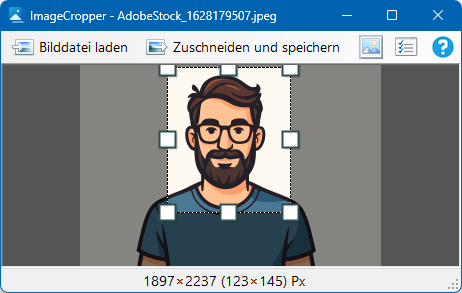
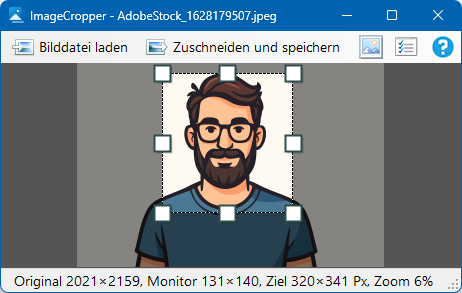
v1.0.1

Changed region(s): [[0.0, 0.215, 1.0, 0.9829]]

diff --git a/Main.cs b/Main.cs
@@ -196,7 +196,10 @@ public partial class Main : Form
         ratio1to1ToolStripMenuItem.Checked = false;
         ratio2to3ToolStripMenuItem.Checked = false;
         ratio3to4ToolStripMenuItem.Checked = false;
-        if (ratio <= 0) ratioFreeToolStripMenuItem.Checked = true;
+        if (ratio <= 0)
+        {
+            ratioFreeToolStripMenuItem.Checked = true;
+        }
         else if (Math.Abs(ratio - 1.0f) < 0.01) { ratio1to1ToolStripMenuItem.Checked = true; }
         else if (Math.Abs(ratio - (2f / 3f)) < 0.01) { ratio2to3ToolStripMenuItem.Checked = true; }
         else if (Math.Abs(ratio - (3f / 4f)) < 0.01) { ratio3to4ToolStripMenuItem.Checked = true; }
@@ -229,32 +232,59 @@ public partial class Main : Form
         if (rect.Bottom > pictureBox.Height) { rect.Height = pictureBox.Height - rect.Y; }
     }
 
+    private Rectangle GetImageRectangle()
+    {
+        if (pictureBox.Image == null) { return Rectangle.Empty; }
+        var imgSize = pictureBox.Image.Size;
+        var ctrlSize = pictureBox.ClientSize; // Wichtig: ClientSize wegen Fixed3D-Rahmen
+        var ratioImg = (float)imgSize.Width / imgSize.Height;
+        var ratioCtrl = (float)ctrlSize.Width / ctrlSize.Height;
+        var x = 0;
+        var y = 0;
+        var w = ctrlSize.Width;
+        var h = ctrlSize.Height;
+        if (ratioImg > ratioCtrl) // Bild ist breiter als Box (Balken oben/unten)
+        {
+            h = (int)(w / ratioImg);
+            y = (ctrlSize.Height - h) / 2;
+        }
+        else // Bild ist höher als Box (Balken links/rechts)
+        {
+            w = (int)(h * ratioImg);
+            x = (ctrlSize.Width - w) / 2;
+        }
+        return new Rectangle(x, y, w, h);
+    }
+
     private void PictureBox_MouseDown(object? sender, MouseEventArgs e)
     {
-        if (pictureBox.Image == null || e.Button != MouseButtons.Left) return;
-        _mouseDownPoint = e.Location;
+        if (pictureBox.Image == null || e.Button != MouseButtons.Left) { return; }
+        var validRect = GetImageRectangle(); // Gültiger Bereich des Bildes in der PictureBox
+        var clampedPoint = new Point(Math.Clamp(e.X, validRect.Left, validRect.Right), Math.Clamp(e.Y, validRect.Top, validRect.Bottom));
+        _mouseDownPoint = clampedPoint; // Klickpunkt liegt jetzt innerhalb des Bildbereichs, auch wenn Original-Mausposition außerhalb war
         _currentDragHandle = HitTest(e.Location);
-        if (_currentDragHandle != DragHandle.None)  // Wir haben einen Griff oder das Innere getroffen
+        if (_currentDragHandle != DragHandle.None)
         {
             _isDragging = true;
-            _dragStartPoint = e.Location;
+            _dragStartPoint = e.Location; // Hier Original-Location lassen für flüssiges Delta
             _isNewSelection = false;
         }
-        else // Klick außerhalb der Auswahl: Auswahl sofort aufheben
+        else
         {
             _selectionRect = Rectangle.Empty;
             _isNewSelection = true;
             _isDragging = false;
-            pictureBox.Invalidate(); // Zeichnet das Bild ohne Rahmen neu
+            pictureBox.Invalidate();
         }
     }
 
     private void PictureBox_MouseMove(object? sender, MouseEventArgs e)
     {
         if (pictureBox.Image == null) { return; }
+        var validRect = GetImageRectangle();
         if (!_isDragging && _isNewSelection && e.Button == MouseButtons.Left)
         {
-            if (Math.Abs(e.X - _mouseDownPoint.X) > SystemInformation.DragSize.Width || Math.Abs(e.Y - _mouseDownPoint.Y) > SystemInformation.DragSize.Height) // Mindestbewegung prüfen
+            if (Math.Abs(e.X - _mouseDownPoint.X) > SystemInformation.DragSize.Width || Math.Abs(e.Y - _mouseDownPoint.Y) > SystemInformation.DragSize.Height) // _mouseDownPoint ist bereits korrigiert
             {
                 _isDragging = true;
                 _selectionRect = new Rectangle(_mouseDownPoint, new Size(0, 0));
@@ -268,45 +298,52 @@ public partial class Main : Form
             SetCursor(HitTest(e.Location));
             return;
         }
-        var newRect = _selectionRect; // B) Das eigentliche Ziehen/Vergrößern
-        switch (_currentDragHandle) // Berechnung basierend darauf, welcher Griff gezogen wird
+        var x = Math.Clamp(e.X, validRect.Left, validRect.Right); // Clamping auf das Bildrechteck:
+        var y = Math.Clamp(e.Y, validRect.Top, validRect.Bottom); // Maus darf virtuell nicht den Bildbereich verlassen
+        var newRect = _selectionRect;
+        switch (_currentDragHandle)
         {
             case DragHandle.TopLeft:
-                newRect.X = e.X; newRect.Y = e.Y;
-                newRect.Width = _selectionRect.Right - e.X;
-                newRect.Height = _selectionRect.Bottom - e.Y;
+                newRect.X = x; newRect.Y = y;
+                newRect.Width = _selectionRect.Right - x;
+                newRect.Height = _selectionRect.Bottom - y;
                 break;
             case DragHandle.TopRight:
-                newRect.Y = e.Y;
-                newRect.Width = e.X - _selectionRect.X;
-                newRect.Height = _selectionRect.Bottom - e.Y;
+                newRect.Y = y;
+                newRect.Width = x - _selectionRect.X;
+                newRect.Height = _selectionRect.Bottom - y;
                 break;
             case DragHandle.BottomLeft:
-                newRect.X = e.X;
-                newRect.Width = _selectionRect.Right - e.X;
-                newRect.Height = e.Y - _selectionRect.Y;
+                newRect.X = x;
+                newRect.Width = _selectionRect.Right - x;
+                newRect.Height = y - _selectionRect.Y;
                 break;
             case DragHandle.BottomRight:
-                newRect.Width = e.X - _selectionRect.X;
-                newRect.Height = e.Y - _selectionRect.Y;
+                newRect.Width = x - _selectionRect.X;
+                newRect.Height = y - _selectionRect.Y;
                 break;
             case DragHandle.Top:
-                newRect.Y = e.Y; newRect.Height = _selectionRect.Bottom - e.Y; break;
+                newRect.Y = y; newRect.Height = _selectionRect.Bottom - y; break;
             case DragHandle.Bottom:
-                newRect.Height = e.Y - _selectionRect.Y; break;
+                newRect.Height = y - _selectionRect.Y; break;
             case DragHandle.Left:
-                newRect.X = e.X; newRect.Width = _selectionRect.Right - e.X; break;
+                newRect.X = x; newRect.Width = _selectionRect.Right - x; break;
             case DragHandle.Right:
-                newRect.Width = e.X - _selectionRect.X; break;
-            case DragHandle.Inside: // Verschieben der ganzen Box
+                newRect.Width = x - _selectionRect.X; break;
+            case DragHandle.Inside:
                 var dx = e.X - _dragStartPoint.X;
                 var dy = e.Y - _dragStartPoint.Y;
                 newRect.Offset(dx, dy);
-                _dragStartPoint = e.Location; // Reset für nächstes Delta
+                if (newRect.Left < validRect.Left) { newRect.X = validRect.Left; }
+                if (newRect.Top < validRect.Top) { newRect.Y = validRect.Top; }
+                if (newRect.Right > validRect.Right) { newRect.X = validRect.Right - newRect.Width; }
+                if (newRect.Bottom > validRect.Bottom) { newRect.Y = validRect.Bottom - newRect.Height; }
+                _dragStartPoint = e.Location;
                 break;
         }
-        if (_currentAspectRatio > 0 && _currentDragHandle != DragHandle.Inside) { ApplyAspectRatio(ref newRect, _currentDragHandle); } // Seitenverhältnis erzwingen
-        newRect = Util.NormalizeRectangle(newRect); // Normalisieren (falls Breite/Höhe negativ wurde durch Ziehen über die Gegenseite hinaus)
+        if (_currentAspectRatio > 0 && _currentDragHandle != DragHandle.Inside) { ApplyAspectRatio(ref newRect, _currentDragHandle); }
+        newRect = Util.NormalizeRectangle(newRect);
+        newRect.Intersect(validRect); // alles abschneiden, was außerhalb liegt
         if (newRect != _selectionRect)
         {
             _selectionRect = newRect;
@@ -329,12 +366,12 @@ public partial class Main : Form
         if (_isLoading)
         {
             var text = "Bitte warten…";
-            var scaledFontSize = 24f * DeviceDpi / 96f; // Schrift mit-skalieren
+            var scaledFontSize = 24f * DeviceDpi / 96f;
             e.Graphics.TextRenderingHint = System.Drawing.Text.TextRenderingHint.ClearTypeGridFit;
             using Font font = new("Segoe UI", scaledFontSize);
-            var textSize = e.Graphics.MeasureString(text, font); // e.Graphics.MeasureString statt TextRenderer.MeasureText, genauer bei hohen DPI
-            var x = (pictureBox.Width - textSize.Width) / 2;
-            var y = (pictureBox.Height - textSize.Height) / 2;
+            var textSize = e.Graphics.MeasureString(text, font);
+            var x = (pictureBox.ClientSize.Width - textSize.Width) / 2;
+            var y = (pictureBox.ClientSize.Height - textSize.Height) / 2;
             e.Graphics.DrawString(text, font, Brushes.White, x, y);
         }
         else if (pictureBox.Image == null) { toolStripStatusSize.Text = ""; }
@@ -343,25 +380,28 @@ public partial class Main : Form
         {
             var g = e.Graphics;
             g.SmoothingMode = SmoothingMode.None;
-            using (Brush shadowBrush = new SolidBrush(Color.FromArgb(120, Color.Black)))  // "Dunkle Maske" ohne Region-Objekt zeichnen
+            var w = pictureBox.ClientSize.Width;
+            var h = pictureBox.ClientSize.Height;
+            using (Brush shadowBrush = new SolidBrush(Color.FromArgb(120, Color.Black)))
             {
-                g.FillRectangle(shadowBrush, 0, 0, pictureBox.Width, _selectionRect.Y); // Oben
-                g.FillRectangle(shadowBrush, 0, _selectionRect.Bottom, pictureBox.Width, pictureBox.Height - _selectionRect.Bottom); // Unten
+                g.FillRectangle(shadowBrush, 0, 0, w, _selectionRect.Y); // Oben
+                g.FillRectangle(shadowBrush, 0, _selectionRect.Bottom, w, h - _selectionRect.Bottom); // Unten
                 g.FillRectangle(shadowBrush, 0, _selectionRect.Y, _selectionRect.X, _selectionRect.Height); // Links
-                g.FillRectangle(shadowBrush, _selectionRect.Right, _selectionRect.Y, pictureBox.Width - _selectionRect.Right, _selectionRect.Height); // Rechts 
+                g.FillRectangle(shadowBrush, _selectionRect.Right, _selectionRect.Y, w - _selectionRect.Right, _selectionRect.Height); // Rechts 
             }
-            using (Pen whitePen = new(Color.White, 1)) { g.DrawRectangle(whitePen, _selectionRect); }
+            var drawRect = new Rectangle(_selectionRect.X, _selectionRect.Y, _selectionRect.Width - 1, _selectionRect.Height - 1);
+            using (Pen whitePen = new(Color.White, 1)) { g.DrawRectangle(whitePen, drawRect); }
             using (Pen antPen = new(Color.Black, 1))
             {
                 antPen.DashStyle = DashStyle.Dash;
-                g.DrawRectangle(antPen, _selectionRect);
+                g.DrawRectangle(antPen, drawRect);
             }
             g.SmoothingMode = SmoothingMode.AntiAlias;
             DrawHandle(e.Graphics, DragHandle.TopLeft);
             DrawHandle(e.Graphics, DragHandle.TopRight);
             DrawHandle(e.Graphics, DragHandle.BottomLeft);
             DrawHandle(e.Graphics, DragHandle.BottomRight);
-            if (_currentAspectRatio <= 0)  // Diese Griffe nur zeichnen, wenn das Verhältnis frei ist
+            if (_currentAspectRatio <= 0)
             {
                 DrawHandle(e.Graphics, DragHandle.Top);
                 DrawHandle(e.Graphics, DragHandle.Bottom);
@@ -369,7 +409,25 @@ public partial class Main : Form
                 DrawHandle(e.Graphics, DragHandle.Right);
             }
             var realRect = Util.TranslateSelectionToImageCoordinates(_selectionRect, pictureBox);
-            toolStripStatusSize.Text = $"{realRect.Width}×{realRect.Height} ({_selectionRect.Width}×{_selectionRect.Height}) Px";
+            var targetWidth = realRect.Width;
+            var targetHeight = realRect.Height;
+            if (targetWidth > _targetWidth)
+            {
+                var ratio = (float)realRect.Height / realRect.Width;
+                targetWidth = _targetWidth;
+                targetHeight = (int)(targetWidth * ratio);
+            }
+            double zoomFactor = 0;
+            if (pictureBox.Image.Width > 0 && pictureBox.Image.Height > 0)
+            {
+                var widthRatio = (double)pictureBox.ClientSize.Width / pictureBox.Image.Width;
+                var heightRatio = (double)pictureBox.ClientSize.Height / pictureBox.Image.Height;
+                zoomFactor = Math.Min(widthRatio, heightRatio);
+                if (Math.Abs(zoomFactor - 1.0) < 0.011) { zoomFactor = 1.0; } // Snap-to-1, kleine Abweichungen ignorieren
+            }
+            var isZoom100 = zoomFactor == 1.0;
+            var monitorText = isZoom100 ? "" : $" Monitor {_selectionRect.Width}×{_selectionRect.Height},";
+            toolStripStatusSize.Text = $"Original {realRect.Width}×{realRect.Height},{monitorText} Ziel {targetWidth}×{targetHeight} Px, Zoom {zoomFactor:0%}";
         }
     }
 
@@ -503,18 +561,34 @@ public partial class Main : Form
             if (sourceRect.Width <= 0 || sourceRect.Height <= 0) { throw new Exception("Auswahl ist ungültig."); }
             var targetWidth = sourceRect.Width; // Zielgröße berechnen (Skalierung auf max 320px Breite)
             var targetHeight = sourceRect.Height;
+            var isScaling = false;
             if (targetWidth > _targetWidth)
             {
                 var ratio = (float)sourceRect.Height / sourceRect.Width;
                 targetWidth = _targetWidth;
                 targetHeight = (int)(targetWidth * ratio);
+                isScaling = true;
             }
             Bitmap croppedImage = new(targetWidth, targetHeight);
+
+            croppedImage.SetResolution(originalImage.HorizontalResolution, originalImage.VerticalResolution);
+
             using (var g = Graphics.FromImage(croppedImage))
             {
-                g.InterpolationMode = InterpolationMode.HighQualityBicubic;
-                g.SmoothingMode = SmoothingMode.HighQuality;
-                g.PixelOffsetMode = PixelOffsetMode.HighQuality;
+                if (isScaling)
+                {
+                    // Hohe Qualität beim Verkleinern
+                    g.InterpolationMode = InterpolationMode.HighQualityBicubic;
+                    g.SmoothingMode = SmoothingMode.HighQuality;
+                    g.PixelOffsetMode = PixelOffsetMode.HighQuality;
+                }
+                else
+                {
+                    // Pixel-perfekte Kopie beim reinen Ausschneiden (verhindert Weichzeichnen)
+                    g.InterpolationMode = InterpolationMode.NearestNeighbor;
+                    g.SmoothingMode = SmoothingMode.None;
+                    g.PixelOffsetMode = PixelOffsetMode.None;
+                }
                 g.DrawImage(originalImage, new Rectangle(0, 0, targetWidth, targetHeight), sourceRect, GraphicsUnit.Pixel); // Quelle -> Ziel (0, 0, targetWidth, targetHeight)
             }
             var savePath = Path.Combine(_saveDirectory ?? Environment.GetFolderPath(Environment.SpecialFolder.Desktop), _saveImageName + ".jpg");
@@ -522,10 +596,9 @@ public partial class Main : Form
             if (jpgEncoder == null) { croppedImage.Save(savePath, ImageFormat.Jpeg); }
             else
             {
-                EncoderParameters myEncoderParameters = new(1);
+                using EncoderParameters myEncoderParameters = new(1);
                 myEncoderParameters.Param[0] = new EncoderParameter(System.Drawing.Imaging.Encoder.Quality, _jpegQuality);
                 croppedImage.Save(savePath, jpgEncoder, myEncoderParameters);
-                myEncoderParameters.Dispose(); // EncoderParameter freigeben
             }
             var savedToClipboard = true;
             try { Clipboard.SetDataObject(savePath, true, 5, 10); }
@@ -936,4 +1009,8 @@ public partial class Main : Form
             : (settingsToolStripMenuItem.DisplayStyle = helpToolStripMenuItem.DisplayStyle = ToolStripItemDisplayStyle.Image);
     }
 
+    private void PictureBox_SizeChanged(object sender, EventArgs e)
+    {
+        if (!_selectionRect.IsEmpty && !pictureBox.ClientRectangle.Contains(_selectionRect)) { CancelSelection(); }
+    }
 }

diff --git a/Main.Designer.cs b/Main.Designer.cs
@@ -29,7 +29,7 @@
         private void InitializeComponent()
         {
             components = new System.ComponentModel.Container();
-            System.ComponentModel.ComponentResourceManager resources = new System.ComponentModel.ComponentResourceManager(typeof(Main));
+            var resources = new System.ComponentModel.ComponentResourceManager(typeof(Main));
             menuStrip = new MenuStrip();
             openToolStripMenuItem = new ToolStripMenuItem();
             cropToolStripMenuItem = new ToolStripMenuItem();
@@ -66,7 +66,6 @@
             menuStrip.ShowItemToolTips = true;
             menuStrip.Size = new Size(460, 32);
             menuStrip.TabIndex = 0;
-            menuStrip.Text = "";
             menuStrip.ClientSizeChanged += MenuStrip_ClientSizeChanged;
             // 
             // openToolStripMenuItem
@@ -144,7 +143,6 @@
             // pictureBox
             // 
             pictureBox.BackColor = SystemColors.ControlDark;
-            pictureBox.BorderStyle = BorderStyle.Fixed3D;
             pictureBox.ContextMenuStrip = contextMenuStrip;
             pictureBox.Dock = DockStyle.Fill;
             pictureBox.Location = new Point(0, 32);
@@ -153,6 +151,7 @@
             pictureBox.SizeMode = PictureBoxSizeMode.Zoom;
             pictureBox.TabIndex = 2;
             pictureBox.TabStop = false;
+            pictureBox.SizeChanged += PictureBox_SizeChanged;
             pictureBox.Paint += PictureBox_Paint;
             pictureBox.MouseDown += PictureBox_MouseDown;
             pictureBox.MouseMove += PictureBox_MouseMove;
